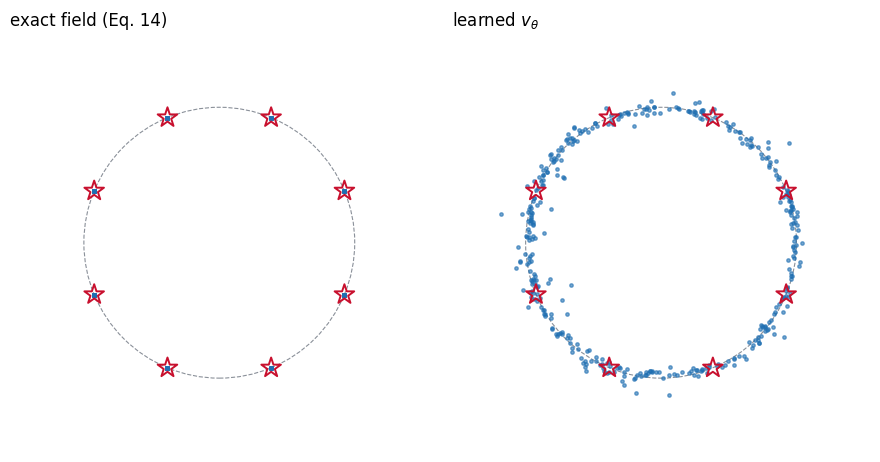
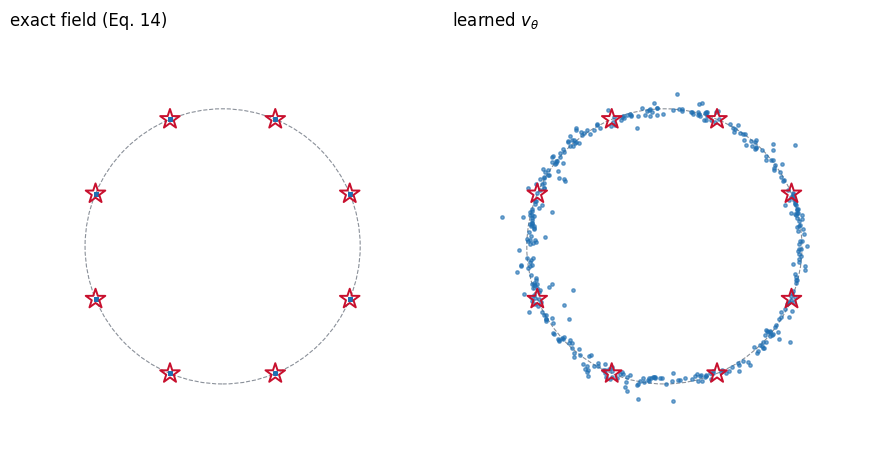
updated exact vs learned graph so that there is no overlap

diff --git a/blog.md b/blog.md
@@ -252,7 +252,7 @@ $$\tag{3}
     \frac{\partial \rho}{\partial t}
     = -\frac{\partial}{\partial x}\big(\rho\,v\big).$$
 
-Read it as: *the rate at which a spot gets more crowded equals minus the net rate at which cars leave it.* The derivative $\partial_x(\rho v)$ is the net outflow: over a tiny stretch $[x, x+\Delta x]$, cars leave at rate $\rho v(x+\Delta x)$ and arrive at rate $\rho v(x)$, and their difference per unit length tends to $\partial_x(\rho v)$.
+Read it as: the rate at which a spot gets more crowded equals minus the net rate at which cars leave it. The derivative $\partial_x(\rho v)$ is the net outflow: over a tiny stretch $[x, x+\Delta x]$, cars leave at rate $\rho v(x+\Delta x)$ and arrive at rate $\rho v(x)$, and their difference per unit length tends to $\partial_x(\rho v)$.
 
 #### Constant speed: the jam slides
 
@@ -333,7 +333,7 @@ $$p_0 = \mathcal{N}(0,I)
 
 We cannot write one down directly. We have no formula for $p_{\mathrm{data}}$, only samples of it, so we cannot write the intermediate densities $p_t$ either, and without $p_t$ there is nothing to solve for $u_t$.
 
-Moving a Gaussian onto a *single* scan, however, is easy. So we solve that small problem for every scan in the dataset and then combine the answers.
+Moving a Gaussian onto a single scan, however, is easy. So we solve that small problem for every scan in the dataset and then combine the answers.
 
 From here on we switch to the naming convention used in the flow matching literature: $x_0 \sim \mathcal{N}(0,I)$ is *noise* and $x_1 \sim p_{\mathrm{data}}$ is *data*, and time runs from noise at $t=0$ to data at $t=1$. This is the reverse of the diffusion convention above.
 
@@ -435,7 +435,7 @@ Take a one-dimensional "dataset" of two points, $x_1 = -1$ and $x_1 = +1$, each 
 
 We now have a velocity field that provably carries noise to data, assembled from easy per-scan pieces. We still cannot compute it: Eq. (12) integrates over $p_{\mathrm{data}}$ and divides by $p_t(x)$, and we have neither. The next section shows that we never need to. Training a network to predict the easy conditional velocity $x_1 - x_0$ on random pairs recovers exactly the conditional expectation in Eq. (13).
 
-## Learning the field: the flow matching objective
+### Learning the field: the flow matching objective
 
 The previous section gave us a velocity field that provably carries noise to data,
 
